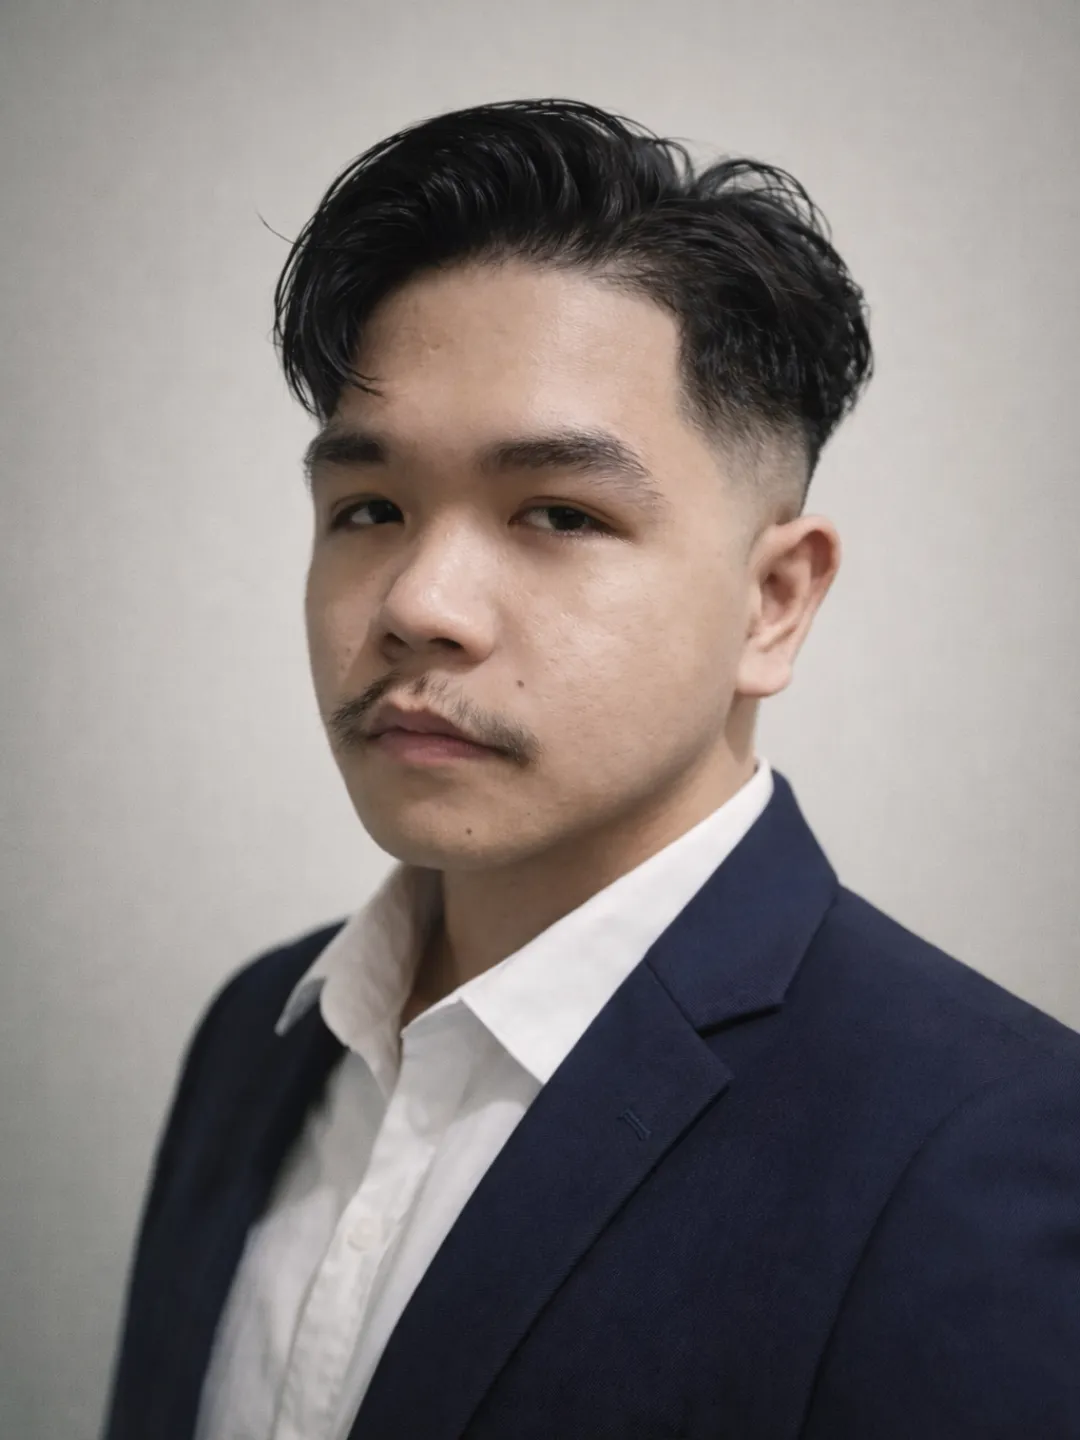
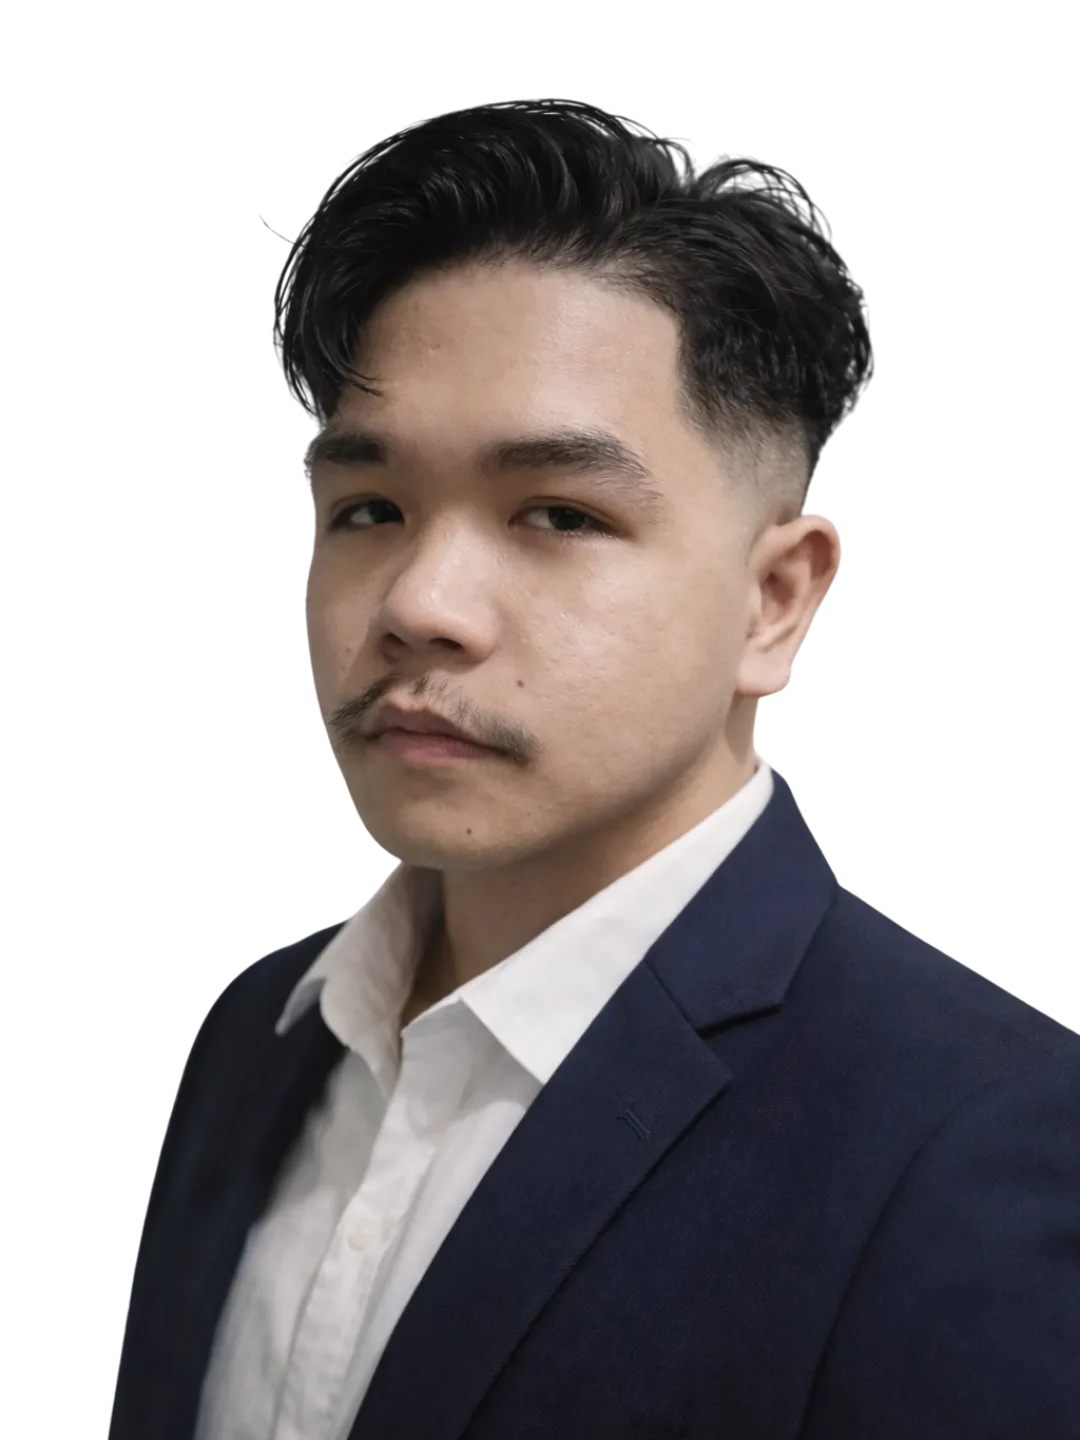
feat(speakers): implement 1:1 pixel perfection and custom speaker scaling

diff --git a/components/sections/speakers-section.tsx b/components/sections/speakers-section.tsx
@@ -7,6 +7,7 @@ interface Speaker {
   organization: string;
   role: string;
   image: string;
+  imgClass: string;
 }
 
 const SPEAKERS: Speaker[] = [
@@ -15,30 +16,35 @@ const SPEAKERS: Speaker[] = [
     organization: "KOLLAB",
     role: "Head of Quality Assurance",
     image: "/speakers/speakers/Jazmine Calma - PIC.webp",
+    imgClass: "w-[125%] max-w-[125%] translate-x-[-10%] translate-y-[6%] scale-[1.05]"
   },
   {
     name: "Sermil Matoto",
     organization: "KOLLAB",
     role: "Chief Engineer",
     image: "/speakers/speakers/Sermil Matoto - PIC.webp",
+    imgClass: "w-[120%] max-w-[120%] translate-x-[-12%] translate-y-[4%] scale-[1.0]"
   },
   {
     name: "John Dustin Santos",
     organization: "DEPARTMENT OF INFORMATION TECHNOLOGY",
     role: "Chairperson",
     image: "/speakers/speakers/SIR DUSTIN - PIC.webp",
+    imgClass: "w-[125%] max-w-[125%] translate-x-[-10%] translate-y-[8%] scale-[1.12]"
   },
   {
     name: "Julianne Cera",
     organization: "WHITE CLOAK TECHNOLOGIES",
     role: "Community and Partnerships Relations Officer",
     image: "/speakers/speakers/Julianne Cera  - PIC.webp",
+    imgClass: "w-[115%] max-w-[115%] translate-x-[-8%] translate-y-[6%] scale-[1.1]"
   },
   {
     name: "Carlos Jerico Dela Torre",
     organization: "GOOGLE DEVELOPER GROUPS ON CAMPUS PUP",
     role: "Chief Technology Officer",
     image: "/speakers/speakers/JERICO - PIC.webp",
+    imgClass: "w-[125%] max-w-[125%] translate-x-[-12%] translate-y-[8%] scale-[1.1]"
   },
 ];
 
@@ -59,56 +65,68 @@ const SpeakerCard = ({ speaker }: { speaker: Speaker }) => {
     <motion.div
       variants={cardVariants}
       whileHover={{ scale: 1.02, transition: { duration: 0.2 } }}
-      className="relative group rounded-2xl overflow-hidden w-full max-w-[340px] md:max-w-none md:w-[320px] aspect-[8/11] border border-blue-900/30 hover:border-cyan-400/50 transition-colors mx-auto"
-      style={{ willChange: "transform" }}
+      className="relative group w-full max-w-[340px] md:max-w-none md:w-[320px] aspect-[8/11.5] mx-auto"
+      style={{ willChange: "transform", transformStyle: "preserve-3d" }}
     >
-      {/* Base Cosmic Background */}
-      <img 
-        src="/speakers/speakers/BG.webp" 
-        alt="" 
-        className="absolute inset-0 w-full h-full object-cover z-0" 
-      />
-      
-      {/* Blue Space Dust */}
-      <img 
-        src="/speakers/speakers/SPACE DUST BLUE 1.webp" 
-        alt="" 
-        className="absolute inset-0 w-full h-full object-cover z-0 opacity-50 mix-blend-screen" 
-      />
+      {/* 1. Base Container */}
+      <div className="absolute inset-0 rounded-[1.25rem] border border-blue-400/20 group-hover:border-blue-400/50 transition-colors shadow-[0_25px_50px_-12px_rgba(0,0,0,0.8)] bg-[#040B16]">
+        
+        {/* Base Cosmic Background */}
+        <img 
+          src="/speakers/speakers/BG.webp" 
+          alt="" 
+          className="absolute inset-0 w-full h-full object-cover rounded-[1.25rem] z-0" 
+        />
 
-      {/* Speaker Photo */}
-      <img 
-        src={speaker.image} 
-        alt={speaker.name} 
-        className="absolute inset-x-0 bottom-0 w-full h-[95%] object-contain object-bottom z-10 transition-transform duration-500 group-hover:scale-[1.03] origin-bottom" 
-      />
+        {/* 2. Masked Group (Rectangle 63 mask equivalent) */}
+        <div className="absolute inset-0 overflow-hidden rounded-[1.25rem] z-10 pointer-events-none">
+          {/* Ellipse 211 - Glow effect behind speaker */}
+          <div className="absolute top-1/3 left-1/2 -translate-x-1/2 w-56 h-56 bg-blue-500/40 rounded-full blur-[70px]" />
+          
+          {/* SPACE DUST BLUE 1 */}
+          <img 
+            src="/speakers/speakers/SPACE DUST BLUE 1.webp" 
+            alt="" 
+            className="absolute inset-0 w-full h-full object-cover opacity-60 mix-blend-screen" 
+          />
 
-      {/* Cloud Overlays */}
-      <img 
-        src="/speakers/speakers/Cloud Center 2 (Back) v2 1.webp" 
-        alt="" 
-        className="absolute bottom-0 left-0 w-full h-[60%] object-cover z-20 opacity-80 mix-blend-screen pointer-events-none" 
-      />
-      <img 
-        src="/speakers/speakers/Cloud Center 4 (Front) 4.webp" 
-        alt="" 
-        className="absolute -bottom-10 left-0 w-full h-[50%] object-cover z-20 pointer-events-none" 
-      />
+          {/* Speaker Photo with custom positioning array per-speaker */}
+          <img 
+            src={speaker.image} 
+            alt={speaker.name} 
+            className={`absolute bottom-0 object-contain object-bottom transition-transform duration-500 group-hover:scale-[1.03] origin-bottom ${speaker.imgClass}`} 
+          />
 
-      {/* Dark Gradient Overlay for Text Readability */}
-      <div className="absolute inset-0 bg-gradient-to-t from-[#020617] via-[#020617]/50 to-transparent opacity-90 z-20 pointer-events-none" />
+          {/* Cloud Right 2 (Front) 1 - Inside the mask */}
+          <img 
+            src="/speakers/speakers/Cloud Right 2 (Front) 1.webp" 
+            alt="" 
+            className="absolute -bottom-4 -right-4 w-[110%] h-[40%] object-cover opacity-90 pointer-events-none mix-blend-screen" 
+          />
+        </div>
 
-      {/* Text Content */}
-      <div className="absolute bottom-0 left-0 w-full p-6 z-30 flex flex-col justify-end pointer-events-none">
-        <p className="text-[#38bdf8] text-[0.6rem] tracking-[0.15em] uppercase font-bold mb-1 font-['Inter'] leading-tight">
-          {speaker.organization}
-        </p>
-        <h3 className="text-white text-2xl font-bold mb-1 font-['Google_Sans'] leading-tight">
-          {speaker.name}
-        </h3>
-        <p className="text-gray-300 text-xs font-['Inter'] leading-relaxed">
-          {speaker.role}
-        </p>
+        {/* 3. Outer Cloud (Cloud Center 4 (Front) 4) - Outside the mask to spill over bounds slightly */}
+        <img 
+          src="/speakers/speakers/Cloud Center 4 (Front) 4.webp" 
+          alt="" 
+          className="absolute bottom-[-5%] -left-[10%] w-[120%] h-[35%] object-contain z-20 pointer-events-none" 
+        />
+
+        {/* Dark Gradient Overlay for Text Readability - Also rounded */}
+        <div className="absolute inset-0 rounded-[1.25rem] bg-gradient-to-t from-[#0b1021] via-[#0b1021]/60 to-transparent opacity-95 z-20 pointer-events-none" />
+
+        {/* 4. Text Content Container */}
+        <div className="absolute bottom-0 left-0 w-full p-6 lg:p-7 z-30 flex flex-col justify-end pointer-events-none pb-8 lg:pb-10">
+          <p className="text-[#3b82f6] text-[0.6rem] tracking-[0.1em] font-bold mb-1 font-['Inter'] uppercase drop-shadow-md">
+            {speaker.organization}
+          </p>
+          <h3 className="text-white text-[1.6rem] tracking-tight font-bold mb-0.5 font-['Google_Sans'] drop-shadow-lg">
+            {speaker.name}
+          </h3>
+          <p className="text-[#cbd5e1] text-[0.75rem] font-medium font-['Inter'] drop-shadow-md">
+            {speaker.role}
+          </p>
+        </div>
       </div>
     </motion.div>
   );
